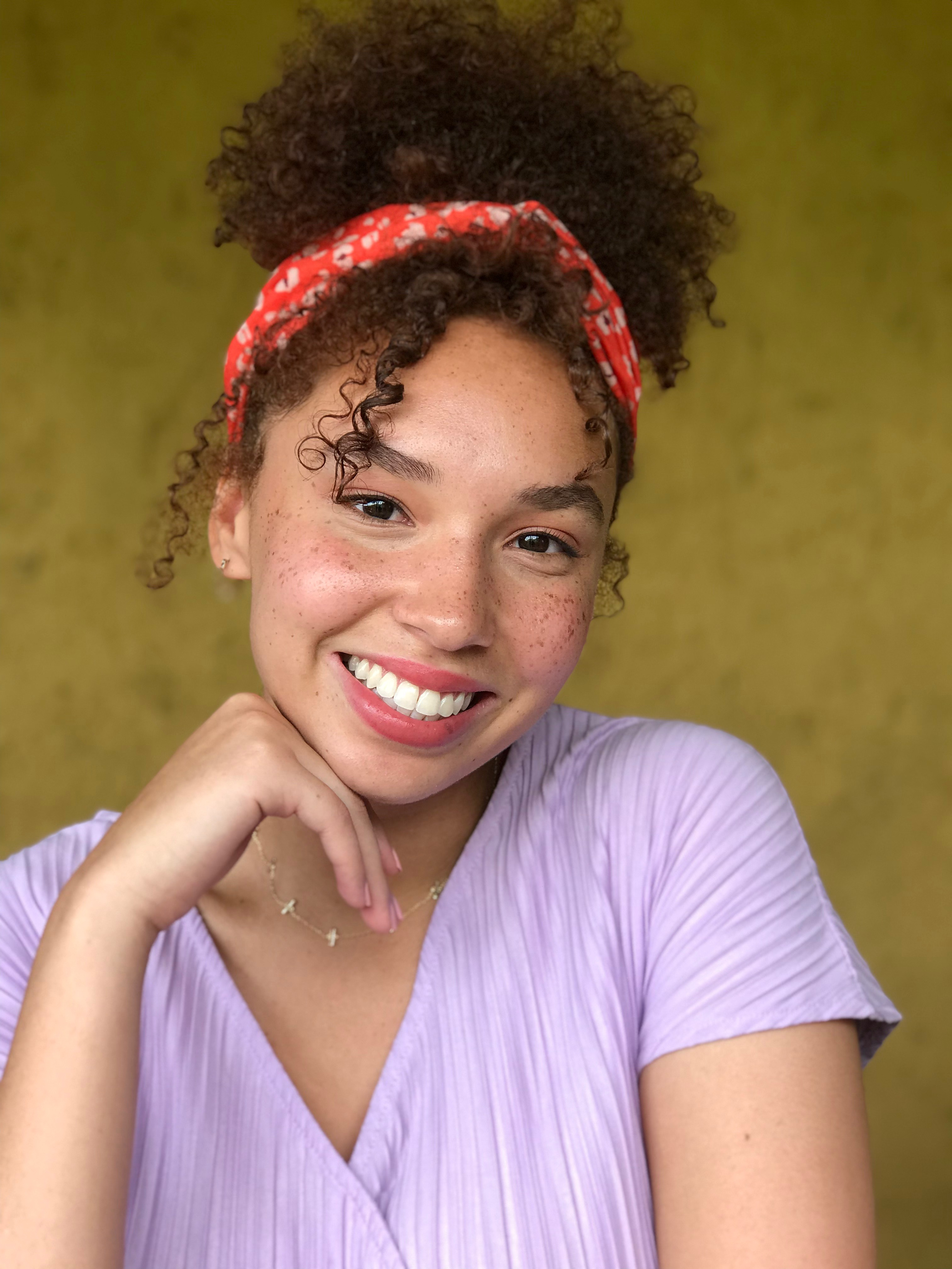
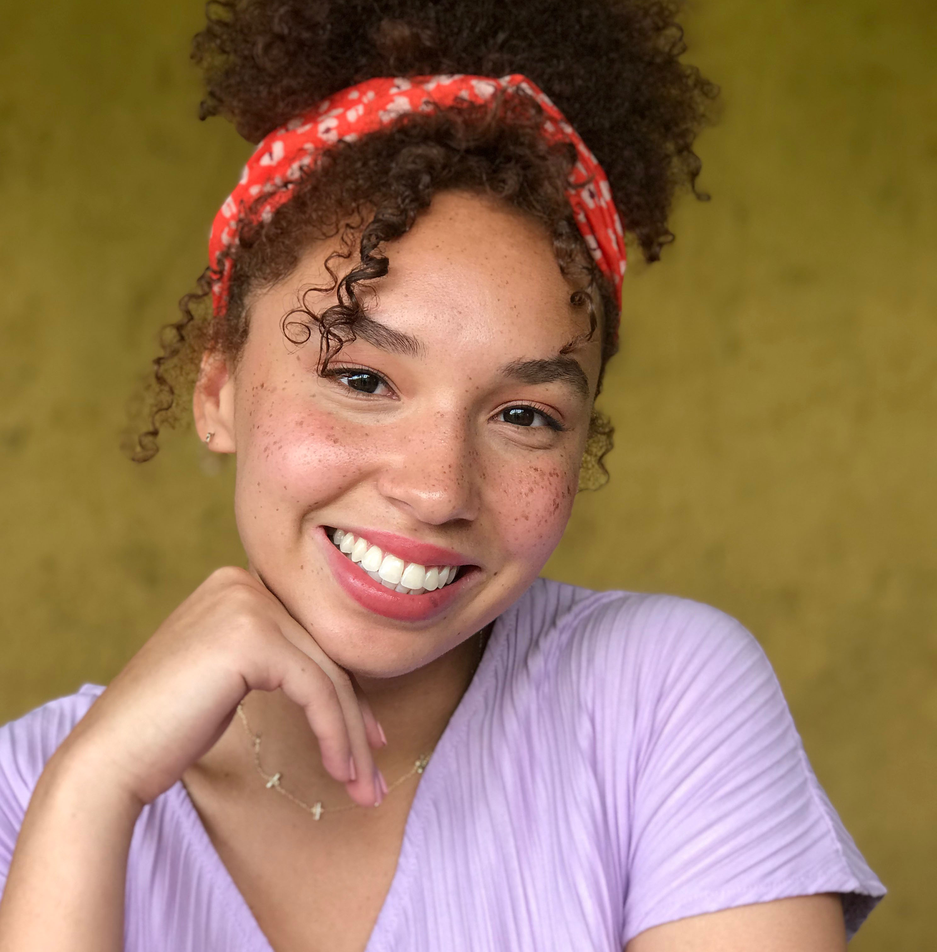
update team

diff --git a/index.html b/index.html
@@ -273,11 +273,11 @@
       <h5>Job</h5>
 </div>
 
-<div class="teamMember col-xs-6 col-sm-4 col-md-3 col-6">    <img class="team-photo" src="images/student.jpg">
+<div class="teamMember col-xs-6 col-sm-4 col-md-3 col-6">    <img class="team-photo" src="images/sana.jpg">
       <h4>Sana Paul</h4>
       <h5>Job</h5>
 </div>
-<div class="teamMember col-xs-6 col-sm-4 col-md-3 col-6">    <img class="team-photo" src="images/student.jpg">
+<div class="teamMember col-xs-6 col-sm-4 col-md-3 col-6">    <img class="team-photo" src="images/fabrizio.jpg">
       <h4>Fabrizio Darby</h4>
       <h5>Job</h5>
 </div>
